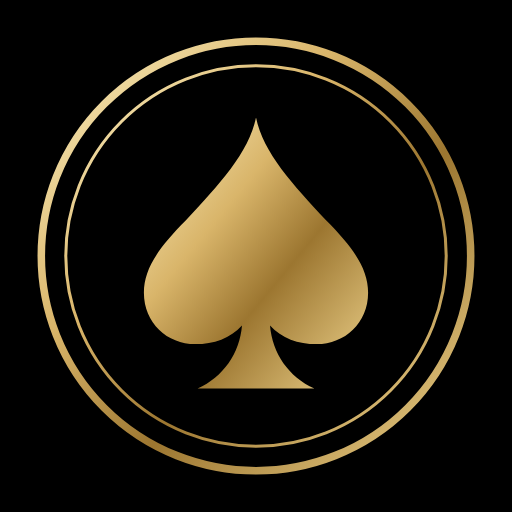
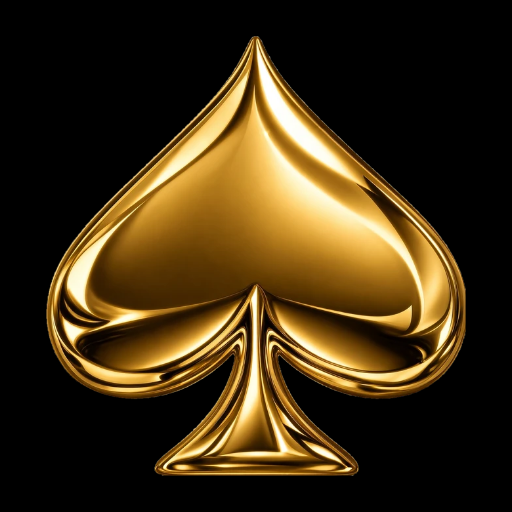
Use the gold spade and flacon artwork
The supplied gold spade replaces the drawn emblem (header, footer, empty
bag, 404, tab icon and share image) and the spade flacon replaces the
drawn bottle in the hero. Both were cut out of their baked-in
checkerboard into transparent web-sized copies; the originals move to
assets/originals so they are no longer served publicly.

Claude-Session: https://claude.ai/code/session_01P8Fuz4KzguPijhr2QHpD9o

diff --git a/components/HeroArt.js b/components/HeroArt.js
@@ -1,7 +1,6 @@
-import { PIP } from "./Emblem";
-
-// Hero artwork: a gold-capped flacon standing in front of an Art Deco sunburst, drawn entirely in SVG.
-// The glass holds a deep amber-brown perfume; the label carries the house's ace of spades.
+// Hero artwork: the house flacon, a clear glass bottle carrying the gold ace of spades, standing in front
+// of an Art Deco sunburst. The bottle is public/flacon.webp (a transparent, web-sized copy of
+// assets/originals/gold-spade-flacon.jpg). The glow, the sunburst and the floor shadow are drawn here in SVG.
 const RAYS = Array.from({ length: 36 }, (_, i) => i * 10);
 
 export default function HeroArt() {
@@ -15,32 +14,19 @@ export default function HeroArt() {
           <stop offset="0.8" stopColor="#e3c47c" />
           <stop offset="1" stopColor="#a8823a" />
         </linearGradient>
-        <linearGradient id="art-cap" x1="0" y1="0" x2="1" y2="0">
-          <stop offset="0" stopColor="#7d5b20" />
-          <stop offset="0.22" stopColor="#f7e3a6" />
-          <stop offset="0.45" stopColor="#b98f43" />
-          <stop offset="0.7" stopColor="#f0d58e" />
-          <stop offset="1" stopColor="#6e4f1b" />
-        </linearGradient>
-        <linearGradient id="art-glass" x1="0" y1="0" x2="1" y2="1">
-          <stop offset="0" stopColor="#ffffff" stopOpacity="0.16" />
-          <stop offset="0.45" stopColor="#ffffff" stopOpacity="0.03" />
-          <stop offset="1" stopColor="#d9b56a" stopOpacity="0.14" />
-        </linearGradient>
-        <linearGradient id="art-liquid" x1="0" y1="0" x2="0" y2="1">
-          <stop offset="0" stopColor="#c8923c" stopOpacity="0.85" />
-          <stop offset="0.5" stopColor="#6b3d16" stopOpacity="0.92" />
-          <stop offset="1" stopColor="#24130a" stopOpacity="0.96" />
-        </linearGradient>
         <radialGradient id="art-glow" cx="0.5" cy="0.5" r="0.5">
-          <stop offset="0" stopColor="#d9b56a" stopOpacity="0.5" />
-          <stop offset="0.55" stopColor="#5a3418" stopOpacity="0.28" />
+          <stop offset="0" stopColor="#d9b56a" stopOpacity="0.42" />
+          <stop offset="0.55" stopColor="#5a3418" stopOpacity="0.3" />
           <stop offset="1" stopColor="#3b2416" stopOpacity="0" />
         </radialGradient>
         <radialGradient id="art-fade" cx="0.5" cy="0.5" r="0.5">
           <stop offset="0.25" stopColor="#fff" stopOpacity="0" />
           <stop offset="0.5" stopColor="#fff" stopOpacity="1" />
           <stop offset="1" stopColor="#fff" stopOpacity="0" />
+        </radialGradient>
+        <radialGradient id="art-floor" cx="0.5" cy="0.5" r="0.5">
+          <stop offset="0" stopColor="#000" stopOpacity="0.85" />
+          <stop offset="1" stopColor="#000" stopOpacity="0" />
         </radialGradient>
         <mask id="art-rays"><rect width="420" height="540" fill="url(#art-fade)" /></mask>
       </defs>
@@ -58,32 +44,9 @@ export default function HeroArt() {
         <circle cx="210" cy="290" r="188" strokeWidth="0.400" opacity="0.5" />
       </g>
 
-      {/* Shadow on the floor */}
-      <ellipse cx="210" cy="497" rx="118" ry="9" fill="#000" opacity="0.7" />
-
-      {/* Stopper: a faceted gold cap on a collar */}
-      <path d="M176 96 L190 74 H230 L244 96 V150 H176 Z" fill="url(#art-cap)" stroke="#fdf1c7" strokeOpacity="0.5" strokeWidth="0.800" />
-      <path d="M190 74 L196 96 V150 M230 74 L224 96 V150 M176 96 H244" fill="none" stroke="#3b2416" strokeOpacity="0.55" strokeWidth="0.800" />
-      <rect x="182" y="150" width="56" height="22" fill="url(#art-cap)" />
-      <rect x="170" y="170" width="80" height="12" rx="2" fill="url(#art-cap)" stroke="#fdf1c7" strokeOpacity="0.4" strokeWidth="0.600" />
-
-      {/* Bottle: heavy glass shoulders, the perfume inside, then reflections */}
-      <path d="M150 182 H270 L310 214 V470 a16 16 0 0 1 -16 16 H126 a16 16 0 0 1 -16 -16 V214 Z" fill="#0b0705" />
-      <path d="M124 262 H296 V464 a8 8 0 0 1 -8 8 H132 a8 8 0 0 1 -8 -8 Z" fill="url(#art-liquid)" />
-      <path d="M150 182 H270 L310 214 V470 a16 16 0 0 1 -16 16 H126 a16 16 0 0 1 -16 -16 V214 Z" fill="url(#art-glass)" stroke="url(#art-gold)" strokeWidth="1.400" />
-      <path d="M124 262 H296" stroke="#f7e3a6" strokeOpacity="0.55" strokeWidth="0.800" />
-      <path d="M128 226 V456" stroke="#fff" strokeOpacity="0.28" strokeWidth="5" strokeLinecap="round" />
-      <path d="M140 232 V330" stroke="#fff" strokeOpacity="0.12" strokeWidth="2" strokeLinecap="round" />
-      <path d="M292 230 V450" stroke="#f7e3a6" strokeOpacity="0.16" strokeWidth="2" strokeLinecap="round" />
-
-      {/* Label: a double gold frame with the ace of spades and the house name */}
-      <g>
-        <rect x="158" y="292" width="104" height="132" fill="#0b0705" fillOpacity="0.82" stroke="url(#art-gold)" strokeWidth="1.200" />
-        <rect x="164" y="298" width="92" height="120" fill="none" stroke="url(#art-gold)" strokeWidth="0.500" />
-        <path d={PIP} fill="url(#art-gold)" transform="translate(190 312) scale(0.2)" />
-        <text x="210" y="388" textAnchor="middle" fill="url(#art-gold)" style={{ fontFamily: "var(--font-display), serif", fontWeight: 700, fontSize: 15, letterSpacing: "0.3em" }}>ACES</text>
-        <text x="210" y="405" textAnchor="middle" fill="#d9b56a" style={{ fontFamily: "var(--font-body), sans-serif", fontSize: 6.5, letterSpacing: "0.42em" }}>FRAGRANCE</text>
-      </g>
+      {/* Shadow on the floor, then the bottle itself */}
+      <ellipse cx="210" cy="508" rx="130" ry="12" fill="url(#art-floor)" />
+      <image href="/flacon.webp" x="71" y="42" width="278" height="468" preserveAspectRatio="xMidYMid meet" />
     </svg>
   );
 }

diff --git a/components/Emblem.js b/components/Emblem.js
@@ -1,27 +1,9 @@
-// The house mark: a gold ace of spades pip set in a fine double ring. Drawn here in SVG, so it stays
-// perfectly sharp at any size. Used in the header, the footer, empty states and the 404 page.
-export const PIP =
-  "M100 4C106 34 132 62 160 92c24 24 36 42 36 62 0 26-20 44-44 44-16 0-30-5-40-16 2 24 16 44 38 54H50c22-10 36-30 38-54-10 11-24 16-40 16-24 0-44-18-44-44 0-20 12-38 36-62C68 62 94 34 100 4Z";
+// The house mark: the polished gold ace of spades. Used in the header, the footer, empty states and the 404 page.
+// The pictures are public/spade-mark.webp (small) and public/spade.webp (large): transparent, web-sized
+// copies of assets/originals/gold-spade.jpg.
+const RATIO = 671 / 640; // height / width of the picture
 
-// `ring={false}` draws the pip alone, for very small sizes.
-export default function Emblem({ size = 34, ring = true }) {
-  return (
-    <svg className="emblem" viewBox="0 0 120 120" width={size} height={size} aria-hidden="true" focusable="false">
-      <defs>
-        <linearGradient id="emblem-gold" x1="0" y1="0" x2="1" y2="1">
-          <stop offset="0" stopColor="#fbeebf" />
-          <stop offset="0.35" stopColor="#d9b56a" />
-          <stop offset="0.6" stopColor="#9c7630" />
-          <stop offset="1" stopColor="#f0d58e" />
-        </linearGradient>
-      </defs>
-      {ring && (
-        <g fill="none" stroke="url(#emblem-gold)">
-          <circle cx="60" cy="60" r="57" strokeWidth="2" />
-          <circle cx="60" cy="60" r="50.500" strokeWidth="0.800" />
-        </g>
-      )}
-      <path d={PIP} fill="url(#emblem-gold)" transform={ring ? "translate(29 22) scale(0.31)" : "translate(12 2) scale(0.48)"} />
-    </svg>
-  );
+export default function Emblem({ size = 34 }) {
+  const src = size > 90 ? "/spade.webp" : "/spade-mark.webp";
+  return <img className="emblem" src={src} alt="" width={Math.round(size / RATIO)} height={size} />;
 }
